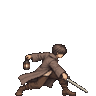
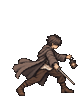
feat: [M-UI-HUD][M-DATA-ASSETMASTER] 溜めを段に分けて発生の進捗に従い順に示し、セインの武技を作り直した GIF から溜め2段・中割り2コマで取り込む

Changed region(s): [[0.1463, 0.3438, 0.9512, 1.0]]

diff --git a/tests/ui/asset-pose.test.ts b/tests/ui/asset-pose.test.ts
@@ -5,8 +5,8 @@ import { ASSET_MASTERS } from '../../src/data/generated/asset-masters.js';
 import type { AssetMasterRecord } from '../../src/data/types.js';
 import { PARAM_IDS } from '../../src/engine/params.js';
 import type { SysFlag, Unit } from '../../src/engine/types.js';
-import { pickAsset, swingFrameCount } from '../../src/ui/assets/resolve.js';
-import { CHARGE_PROGRESS, stancePoseOf } from '../../src/ui/view/figure-motion.js';
+import { frameCount, pickAsset } from '../../src/ui/assets/resolve.js';
+import { stancePoseOf } from '../../src/ui/view/figure-motion.js';
 
 const assets: Readonly<Record<string, AssetMasterRecord>> = ASSET_MASTERS;
 
@@ -41,16 +41,26 @@ describe('[M-DATA-ASSETMASTER]［構えの選択］', () => {
     expect(startup([])).toBeNull();
   });
 
-  it('発生中は進捗が境に達したら溜めを示し、補正で進捗が戻れば構えへ戻る', () => {
-    const at = (elapsedStartup: number, unit = unitIn('STARTUP', ['FLAG_MARTIAL'], { elapsedStartup })) => stancePoseOf(unit);
-    const border = 20 * CHARGE_PROGRESS;
-    expect(at(0)).toEqual({ pose: 'MARTIAL', phase: 'STARTUP' });
-    expect(at(border - 1)).toEqual({ pose: 'MARTIAL', phase: 'STARTUP' });
-    expect(at(border)).toEqual({ pose: 'MARTIAL', phase: 'CHARGE' });
-    expect(at(19)).toEqual({ pose: 'MARTIAL', phase: 'CHARGE' });
-    const slowed = unitIn('STARTUP', ['FLAG_MARTIAL'], { elapsedStartup: border });
-    (slowed.acts[0] as { base_params: { step_startup: number } }).base_params.step_startup = 40; // 必要発生ステップ数が延びて進捗が戻る
-    expect(at(border, slowed)?.phase).toBe('STARTUP');
+  it('溜めを持つ構えは、発生の区間を段の数＋1に等分して段を進め、補正で進捗が戻れば前の段へ戻る', () => {
+    const two = () => 2;
+    const startup = (elapsedStartup: number, required = 20) => {
+      const unit = unitIn('STARTUP', ['FLAG_MARTIAL'], { elapsedStartup });
+      (unit.acts[0] as { base_params: { step_startup: number } }).base_params.step_startup = required;
+      return unit;
+    };
+    // 必要発生 21：7 から1段目、14 から2段目
+    expect(stancePoseOf(startup(6, 21), two)).toEqual({ pose: 'MARTIAL', phase: 'STARTUP' });
+    expect(stancePoseOf(startup(7, 21), two)).toEqual({ pose: 'MARTIAL', phase: 'CHARGE', frame: 1 });
+    expect(stancePoseOf(startup(13, 21), two)).toEqual({ pose: 'MARTIAL', phase: 'CHARGE', frame: 1 });
+    expect(stancePoseOf(startup(14, 21), two)).toEqual({ pose: 'MARTIAL', phase: 'CHARGE', frame: 2 });
+    expect(stancePoseOf(startup(21, 21), two)).toEqual({ pose: 'MARTIAL', phase: 'CHARGE', frame: 2 });
+    // 1段なら進捗 1/2 から
+    expect(stancePoseOf(startup(9), () => 1)).toEqual({ pose: 'MARTIAL', phase: 'STARTUP' });
+    expect(stancePoseOf(startup(10), () => 1)).toEqual({ pose: 'MARTIAL', phase: 'CHARGE', frame: 1 });
+    // 溜めを持たない構えは構えのまま
+    expect(stancePoseOf(startup(19))).toEqual({ pose: 'MARTIAL', phase: 'STARTUP' });
+    // 必要発生ステップ数が延びて進捗が戻れば、前の段へ戻る
+    expect(stancePoseOf(startup(14, 40), two)).toEqual({ pose: 'MARTIAL', phase: 'CHARGE', frame: 1 });
   });
 
   it('発動した後の硬直は、終わりまで振り抜きを示す', () => {
@@ -109,8 +119,8 @@ describe('[M-DATA-ASSETMASTER]［構えの選択］', () => {
       } else {
         expect(record.pose_phase ?? null, record.asset_id).not.toBeNull();
       }
-      expect(record.pose_phase === 'SWING', record.asset_id).toBe((record.swing_frame ?? null) !== null);
-      const key = `${record.owner_kind}/${record.owner_id}/${record.pose}/${record.pose_phase}/${record.swing_frame ?? ''}/${record.condition ?? ''}`;
+      expect(record.pose_phase === 'CHARGE' || record.pose_phase === 'SWING', record.asset_id).toBe((record.frame ?? null) !== null);
+      const key = `${record.owner_kind}/${record.owner_id}/${record.pose}/${record.pose_phase}/${record.frame ?? ''}/${record.condition ?? ''}`;
       keys[key] = (keys[key] ?? 0) + 1;
     }
     expect(Object.entries(keys).filter(([, count]) => count > 1)).toEqual([]);
@@ -144,13 +154,13 @@ describe('[M-DATA-ASSETMASTER]［構えの選択］', () => {
       cue: null,
       pose: 'MARTIAL',
       pose_phase: 'SWING',
-      swing_frame: frame,
+      frame,
       path: frame === 2 ? 'placeholder:t' : 'art/standing/hero-martial-swing-1.png',
     });
     const withGap = { a: swing(1), b: swing(2), c: swing(3) };
-    expect(swingFrameCount(withGap, 'ENEMY', 'ENEMY_T', null, 'MARTIAL')).toBe(0);
-    expect(swingFrameCount({ a: swing(1), c: swing(3) }, 'ENEMY', 'ENEMY_T', null, 'MARTIAL')).toBe(1);
-    expect(swingFrameCount(withGap, 'ENEMY', 'ENEMY_T', null, 'STANCE')).toBe(0);
+    expect(frameCount(withGap, 'ENEMY', 'ENEMY_T', null, 'MARTIAL', 'SWING')).toBe(0);
+    expect(frameCount({ a: swing(1), c: swing(3) }, 'ENEMY', 'ENEMY_T', null, 'MARTIAL', 'SWING')).toBe(1);
+    expect(frameCount(withGap, 'ENEMY', 'ENEMY_T', null, 'STANCE', 'SWING')).toBe(0);
     expect(pickAsset(withGap, 'ENEMY', 'ENEMY_T', 'STANDING', null, { pose: 'MARTIAL', phase: 'SWING', frame: 3 })?.asset_id).toBe(
       'ASSET_T_STANDING_MARTIAL_SWING_3',
     );

diff --git a/src/ui/view/figure-motion.ts b/src/ui/view/figure-motion.ts
@@ -43,13 +43,11 @@ export function poseOfFlags(flags: SysFlags): AssetPose | null {
   return null;
 }
 
-// [M-DATA-ASSETMASTER]［構えの選択］溜めの画へ替える発生の進捗の境（暫定値）。
-export const CHARGE_PROGRESS = 0.6;
-
-// [M-DATA-ASSETMASTER]［構えの選択］ユニットが示す構えと構えの段。発生中は構え（STARTUP）、進捗が境に達したら溜め（CHARGE）、発動した後の硬直は
+// [M-DATA-ASSETMASTER]［構えの選択］ユニットが示す構えと構えの段。発生中は構え（STARTUP）、溜めを持つ構えは進捗に従い溜めの段（CHARGE）、発動した後の硬直は
 // 終わりまで振り抜き（FOLLOW）、スタン中断による硬直は系統によらずやられ（STAGGER）とし、思考中は構えを示さない（Null）。
 // 「スタン中断による硬直の見分け」経過発生ステップ数が必要発生ステップ数の実効値に満たない硬直を中断とみなす。
-export function stancePoseOf(unit: Unit): StancePose | null {
+// chargeStagesOf は構えが持つ溜めの段の数。n 段なら発生の区間を n＋1 に等分し、進捗 k÷(n＋1) 以上で k 段目を示す。
+export function stancePoseOf(unit: Unit, chargeStagesOf: (pose: AssetPose) => number = () => 0): StancePose | null {
   if (unit.last_act === null || (unit.state !== 'STARTUP' && unit.state !== 'RECOVERY')) {
     return null;
   }
@@ -64,8 +62,14 @@ export function stancePoseOf(unit: Unit): StancePose | null {
   if (unit.state === 'RECOVERY') {
     return { pose, phase: 'FOLLOW' };
   }
-  const progress = action === undefined ? null : progressOf(unit.elapsed_startup, effectiveStepStartup(unit, action));
-  return { pose, phase: progress !== null && progress >= CHARGE_PROGRESS ? 'CHARGE' : 'STARTUP' };
+  const stages = chargeStagesOf(pose);
+  const required = action === undefined ? 0 : effectiveStepStartup(unit, action);
+  if (stages <= 0 || required <= 0) {
+    return { pose, phase: 'STARTUP' };
+  }
+  // 割り算の端数で境を外さないよう、整数で段を求める
+  const stage = Math.min(stages, Math.floor((Math.min(unit.elapsed_startup, required) * (stages + 1)) / required));
+  return stage === 0 ? { pose, phase: 'STARTUP' } : { pose, phase: 'CHARGE', frame: stage };
 }
 
 // ステートから定めた構えが発生中のものか（構え、または溜め）。

diff --git a/src/ui/assets/resolve.ts b/src/ui/assets/resolve.ts
@@ -6,7 +6,7 @@ import { ART_FILES } from './art-manifest.js';
 
 export type AssetCondition = (condition: string) => boolean;
 
-// [M-DATA-ASSETMASTER]［構えの選択］示す構えと構えの段（やられ STAGGER は段を持たない）。frame は中割り（SWING）の順。
+// [M-DATA-ASSETMASTER]［構えの選択］示す構えと構えの段（やられ STAGGER は段を持たない）。frame は溜め（CHARGE）の段・中割り（SWING）の順。
 export interface StancePose {
   readonly pose: AssetPose;
   readonly phase: AssetPosePhase | null;
@@ -31,7 +31,7 @@ export function pickAsset(
       record.slot === slot &&
       (record.pose ?? null) === (pose?.pose ?? null) &&
       (record.pose_phase ?? null) === (pose?.phase ?? null) &&
-      (record.swing_frame ?? null) === (pose?.frame ?? null),
+      (record.frame ?? null) === (pose?.frame ?? null),
   );
   const matched = test === null ? undefined : owned.find((record) => (record.condition ?? null) !== null && test(record.condition ?? ''));
   const fallback =
@@ -41,18 +41,19 @@ export function pickAsset(
   return matched ?? fallback ?? null;
 }
 
-// [M-DATA-ASSETMASTER]［構えの選択］「中割り」示す中割りのコマの数。順の1から連なるコマを選び、いずれかに実体が無ければ0とする
-// （欠けたコマを飛ばさない）。
-export function swingFrameCount(
+// [M-DATA-ASSETMASTER]［構えの選択］「溜め」「中割り」示す溜めの段・中割りのコマの数。順の1から連なるコマを選び、いずれかに
+// 実体が無ければ0とする（欠けたコマを飛ばさない）。
+export function frameCount(
   records: Readonly<Record<string, AssetMasterRecord>>,
   ownerKind: AssetOwnerKind,
   ownerId: string | null,
   test: AssetCondition | null,
   pose: AssetPose,
+  phase: 'CHARGE' | 'SWING',
 ): number {
   let count = 0;
   for (;;) {
-    const record = pickAsset(records, ownerKind, ownerId, 'STANDING', test, { pose, phase: 'SWING', frame: count + 1 });
+    const record = pickAsset(records, ownerKind, ownerId, 'STANDING', test, { pose, phase, frame: count + 1 });
     if (record === null) {
       return count;
     }

diff --git a/src/ui/main.ts b/src/ui/main.ts
@@ -48,7 +48,7 @@ import { conditionReader, evaluateCondition } from '../engine/script/condition.j
 import { scriptById, scriptsAt } from '../engine/script/select.js';
 import type { ActionInstance, BattleState, Unit, WatchKind } from '../engine/types.js';
 import { placeholderHue } from './assets/placeholder.js';
-import { assetUrl, assetUrlById, pickAsset, swingFrameCount, type AssetCondition, type StancePose } from './assets/resolve.js';
+import { assetUrl, assetUrlById, frameCount, pickAsset, type AssetCondition, type StancePose } from './assets/resolve.js';
 import { setFigureLookup } from './dom/art.js';
 import { sceneEntries, sceneJumpData, sceneSelectEnabled } from './dev/scene-select.js';
 import { lanternView } from './view/lantern-view.js';
@@ -472,7 +472,8 @@ const naming: UnitNaming = {
   // [M-DATA-ASSETMASTER]［構えの選択］発生中は系統ごとの構えの画を示す。発動の後は「画の最短の表示」を重ねる。
   figure: (unit: Unit) => {
     const owner = figureOwnerOf(unit);
-    return figureOf(owner.kind, owner.id, figureMotion.figurePose(unit.unit_id, stancePoseOf(unit)));
+    const chargeStagesOf = (pose: AssetPose) => frameCount(ASSET_MASTERS, owner.kind, owner.id, assetTest(), pose, 'CHARGE');
+    return figureOf(owner.kind, owner.id, figureMotion.figurePose(unit.unit_id, stancePoseOf(unit, chargeStagesOf)));
   },
   // [M-UI-HUD]【立ち絵の動き】「判定プレビューの構え」構えの画が無ければ Null とし、立ち絵を替えない。
   stanceFigure: (unit: Unit, pose: StancePose) => {
@@ -497,7 +498,7 @@ function swingFramesOf(unitId: string, pose: AssetPose): number {
     return 0;
   }
   const owner = figureOwnerOf(unit);
-  return swingFrameCount(ASSET_MASTERS, owner.kind, owner.id, assetTest(), pose);
+  return frameCount(ASSET_MASTERS, owner.kind, owner.id, assetTest(), pose, 'SWING');
 }
 
 // ── [I-PLAN-ASSETS]【実体の投入】表示アセットの実体 ──

diff --git a/art/import.js b/art/import.js
@@ -8,8 +8,8 @@
 // 描かれた構えの画は、取り込み元の scales.json（{ "<asset_id>": 倍率 }）で倍率を補正する。画面は image-rendering: pixelated で拡大して描く。
 // 音声は取り込み元の <asset_id>.mp3 をそのまま写す。
 // 背景の切り出しの縦位置は、取り込み元の crops.json（{ "<asset_id>": -1〜1 }）で選べる。
-// 溜めの画（<構えの画のID>_CHARGE）と中割りの画（<構えの画のID>_SWING_<順>）は、取り込み元の <構えの画のID>_SWING.gif から、swings.json
-// （{ "<構えの画のID>": { "charge": コマの番号, "frames": [コマの番号…], "follow": コマの番号 } }）が挙げるコマを取り出す。follow を挙げたときは、
+// 溜めの画（<構えの画のID>_CHARGE_<段>）と中割りの画（<構えの画のID>_SWING_<順>）は、取り込み元の <構えの画のID>_SWING.gif から、swings.json
+// （{ "<構えの画のID>": { "charge": [コマの番号…], "frames": [コマの番号…], "follow": コマの番号 } }）が挙げるコマを取り出す。follow を挙げたときは、
 // 振り抜きの画（<構えの画のID>_FOLLOW）も .png の代わりにそのコマから作る。コマの0番は構えの画と同じ姿として、倍率と左右の位置の基準に用いる。
 
 import { app, nativeImage } from 'electron';
@@ -147,7 +147,7 @@ function importSwing(sourceDir, stanceId, spec, scales) {
     return bounds;
   };
   const outputs = [
-    ...(spec.charge === undefined ? [] : [[`${stanceId}_CHARGE`, spec.charge]]),
+    ...(spec.charge ?? []).map((index, order) => [`${stanceId}_CHARGE_${order + 1}`, index]),
     ...spec.frames.map((index, order) => [`${stanceId}_SWING_${order + 1}`, index]),
     ...(spec.follow === undefined ? [] : [[`${stanceId}_FOLLOW`, spec.follow]]),
   ];

diff --git a/tools/genmaster/authoring/assets.js b/tools/genmaster/authoring/assets.js
@@ -99,9 +99,9 @@ const POSE_PHASES = [
   { phase: 'FOLLOW', suffix: '_FOLLOW' },
 ];
 const POSED_OWNER_KINDS = ['HERO', 'ENEMY', 'CREATURE'];
-// 溜め（CHARGE）と中割り（SWING）を持つ構えの画と、中割りのコマの数。どちらも任意であり、ここに挙げた構えだけが持つ。
-// asset_id・variant・path は構えの画に _CHARGE・_SWING_<順> を添える（art/import.js が取り込み元の GIF から作る）。
-const MOTIONS = { ASSET_HERO_STANDING_MARTIAL: { swing: 3 } };
+// 溜め（CHARGE）と中割り（SWING）を持つ構えの画と、溜めの段の数・中割りのコマの数。どちらも任意であり、ここに挙げた構えだけが持つ。
+// asset_id・variant・path は構えの画に _CHARGE_<段>・_SWING_<順> を添える（art/import.js が取り込み元の GIF から作る）。
+const MOTIONS = { ASSET_HERO_STANDING_MARTIAL: { charge: 2, swing: 2 } };
 
 function poseRecord(base, pose, phase, name) {
   return {
@@ -120,8 +120,8 @@ function motionRecords(base, pose) {
     return [];
   }
   return [
-    poseRecord(base, pose, 'CHARGE', `${pose}_CHARGE`),
-    ...Array.from({ length: motion.swing }, (_, i) => ({ ...poseRecord(base, pose, 'SWING', `${pose}_SWING_${i + 1}`), swing_frame: i + 1 })),
+    ...Array.from({ length: motion.charge }, (_, i) => ({ ...poseRecord(base, pose, 'CHARGE', `${pose}_CHARGE_${i + 1}`), frame: i + 1 })),
+    ...Array.from({ length: motion.swing }, (_, i) => ({ ...poseRecord(base, pose, 'SWING', `${pose}_SWING_${i + 1}`), frame: i + 1 })),
   ];
 }
 

diff --git a/src/ui/assets/art-manifest.ts b/src/ui/assets/art-manifest.ts
@@ -46,11 +46,11 @@ export const ART_FILES: readonly string[] = [
   "art/standing/dorn.png",
   "art/standing/garud.png",
   "art/standing/hero-coat-act2.png",
-  "art/standing/hero-martial-charge.png",
+  "art/standing/hero-martial-charge-1.png",
+  "art/standing/hero-martial-charge-2.png",
   "art/standing/hero-martial-follow.png",
   "art/standing/hero-martial-swing-1.png",
   "art/standing/hero-martial-swing-2.png",
-  "art/standing/hero-martial-swing-3.png",
   "art/standing/hero-martial.png",
   "art/standing/hero-mind-follow.png",
   "art/standing/hero-mind.png",
@@ -86,11 +86,11 @@ export const STANDING_HEIGHTS: Readonly<Record<string, number>> = {
   "art/standing/dorn.png": 104,
   "art/standing/garud.png": 102,
   "art/standing/hero-coat-act2.png": 96,
-  "art/standing/hero-martial-charge.png": 96,
+  "art/standing/hero-martial-charge-1.png": 96,
+  "art/standing/hero-martial-charge-2.png": 96,
   "art/standing/hero-martial-follow.png": 96,
   "art/standing/hero-martial-swing-1.png": 96,
   "art/standing/hero-martial-swing-2.png": 96,
-  "art/standing/hero-martial-swing-3.png": 96,
   "art/standing/hero-martial.png": 96,
   "art/standing/hero-mind-follow.png": 96,
   "art/standing/hero-mind.png": 96,

diff --git a/src/data/types.ts b/src/data/types.ts
@@ -217,7 +217,7 @@ export interface AssetMasterRecord {
   readonly condition?: string | null; // 差分を選ぶ条件式（[S-SCRIPT-CONDITION]）。基準の画は Null
   readonly pose?: AssetPose | null; // 実行中アクションに応じて示す系統ごとの構えと、スタン中断による硬直のやられ（[M-DATA-ASSETMASTER]［構えの選択］）。STANDING に限る
   readonly pose_phase?: AssetPosePhase | null; // 構えの段。pose が系統の構えのとき非Null（STARTUP 構え／CHARGE 溜め／SWING 中割り／FOLLOW 振り抜き）、STAGGER のとき Null
-  readonly swing_frame?: number | null; // 中割りの順。pose_phase が SWING のとき1以上、それ以外のとき Null
+  readonly frame?: number | null; // コマの順。pose_phase が CHARGE（溜めの段）・SWING（中割り）のとき1以上、それ以外のとき Null
   readonly path: string;
 }
 

diff --git a/tools/genmaster/lib.js b/tools/genmaster/lib.js
@@ -623,9 +623,9 @@ export function buildAssetRecords(assets) {
     if (phased !== ((entry.pose_phase ?? null) !== null)) {
       throw new Error(`pose_phase の条件付必須に反する: ${entry.asset_id}`);
     }
-    const frame = entry.swing_frame ?? null;
-    if ((entry.pose_phase === 'SWING') !== (frame !== null) || (frame !== null && !(Number.isInteger(frame) && frame >= 1))) {
-      throw new Error(`swing_frame の条件付必須に反する: ${entry.asset_id}`);
+    const frame = entry.frame ?? null;
+    if ((entry.pose_phase === 'CHARGE' || entry.pose_phase === 'SWING') !== (frame !== null) || (frame !== null && !(Number.isInteger(frame) && frame >= 1))) {
+      throw new Error(`frame の条件付必須に反する: ${entry.asset_id}`);
     }
     result[entry.asset_id] = { ...entry };
   }
